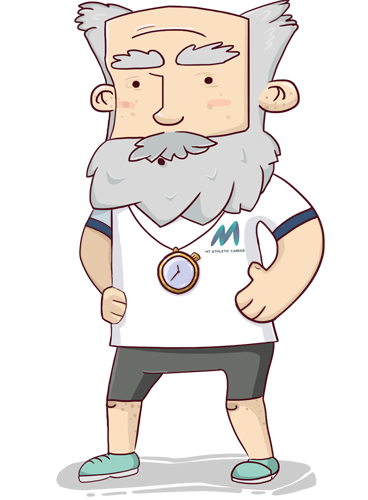
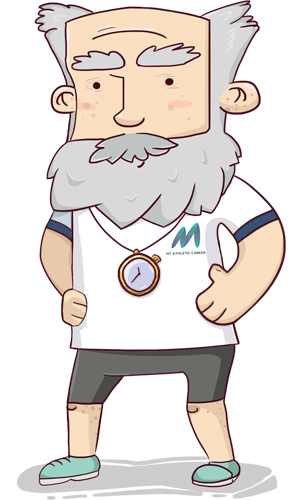
update Best Jack

Changed region(s): [[0.06, 0.0, 0.96, 1.0], [0.66, 0.3, 0.69, 0.33]]

diff --git a/app/assets/stylesheets/application.scss b/app/assets/stylesheets/application.scss
@@ -131,7 +131,7 @@ input[type=submit].btn-default{
 
 .active-jack-best {
   margin: 30px 0;
-  width: 324px;
+  width: 284px;
   height: 522px;
   background-size: cover;
   background: asset-url('jack-best.png') bottom right no-repeat;
@@ -163,5 +163,5 @@ select.year-select {
 }
 
 .personal-link {
-  margin-right: 93px;
+  margin-right: 145px;
 }
